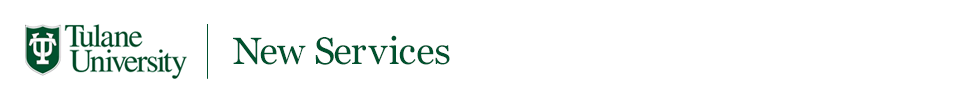
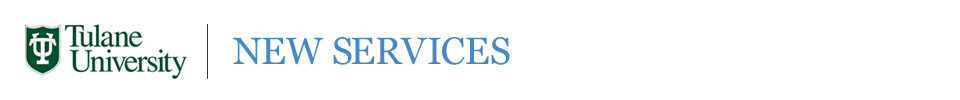
EOD 20120724

Changed region(s): [[0.2188, 0.36, 0.5312, 0.66]]

diff --git a/assets/css/ir_main_style.css b/assets/css/ir_main_style.css
@@ -16,10 +16,75 @@ font-weight:bold;
 padding:20px 0 20px 20px;   
 }
 
-#homepage_carousel{
 
+
+#homepage_carousel{
 margin:20px 0;
 border-top:1px solid #ccc;
 border-bottom:1px solid #ccc;
 height:330px;
 }
+
+
+#homepage_middle_section{
+float:left;
+width:960px;
+margin:10px 0 30px 0;
+}
+
+#homepage_middle_section h2{
+font-size:22px;
+text-transform:uppercase;
+color:#336699;
+padding:0 0 0 0;
+border-bottom: 1px solid #336699;
+}
+
+.middle_section_p{
+text-align: justify;
+width:250px;
+margin:3px 0 20px 10px;
+}
+
+#homepage_middle_section h2.news_headline{color:#4388cc;}
+#homepage_middle_section h2.collections_headline{color:#4388cc;}
+#homepage_middle_section h2.recent_headline{color:#4388cc;}
+
+.homepage_search_box{
+margin:30px 20px 30px 320px;
+}
+
+.homepage_search_box label{
+font-size:2em;
+text-align:bottom;
+}
+
+#homepage_middle_section ul{
+list-style:none;
+margin:0 0 0 10px;
+}
+
+#homepage_middle_section ul li{
+margin:6px 0 6px 0;
+}
+
+
+#right_col{
+  float:left;
+  width:300px;
+}
+
+#middle_col{
+  float:left;
+  width:620px;
+  margin:0 0 0 10px;
+}
+
+#left_col{
+  width:300px;
+  float:left;
+  margin-left:10px;
+display:none;
+}
+
+

diff --git a/application/views/home/home_view.php b/application/views/home/home_view.php
@@ -247,7 +247,50 @@
     
     
     
+    <div id="homepage_middle_section">
+                
+        <div id="left_col">
+            <div class="column_recent">
+            <h2 class="recent_headline">Recent Additions</h2>
+                <p  class="middle_section_p">Excepteur sint occaecat cupidatat non proident, sunt in culpa qui officia deserunt mollit anim id est laborum.</p>
+                <ul>
+                    <li><a href="#">list item one</a></li>
+                    <li><a href="#">list item one</a></li>
+                    <li><a href="#">list item one</a></li>
+                    <li><a href="#">list item one</a></li>
+                    <li><a href="#">list item one</a></li>
+                </ul>
+           </div>    
+        </div>
     
+        <div id="middle_col">
+            <div class="column_area_highlights">
+                <h2 class="collections_headline">Collections</h2>
+                <p class="middle_section_p">Excepteur sint occaecat cupidatat non proident, sunt in culpa qui officia deserunt mollit anim id est laborum.</p>
+                <ul>
+                    <li><a href="#">list item one</a></li>
+                    <li><a href="#">list item one</a></li>
+                    <li><a href="#">list item one</a></li>
+                    <li><a href="#">list item one</a></li>
+                    <li><a href="#">list item one</a></li>
+                </ul>
+            </div>
+        </div>
+
+        <div id="right_col">
+                <div class="column_news">
+                <h2 class="news_headline">News</h2>
+                <p class="middle_section_p">Lorem ipsum dolor sit amet, consectetur adipisicing elit, sed do eiusmod tempor incididunt ut labore et dolore magna aliqua. Ut enim ad minim veniam, quis nostrud exercitation ullamco laboris nisi ut aliquip ex ea commodo consequat.</p>
+                <ul>
+                    <li><a href="#">list item one</a></li>
+                    <li><a href="#">list item one</a></li>
+                    <li><a href="#">list item one</a></li>
+                    <li><a href="#">list item one</a></li>
+                    <li><a href="#">list item one</a></li>
+                </ul>
+            </div>
+        </div>
+    </div>
     
     
     
